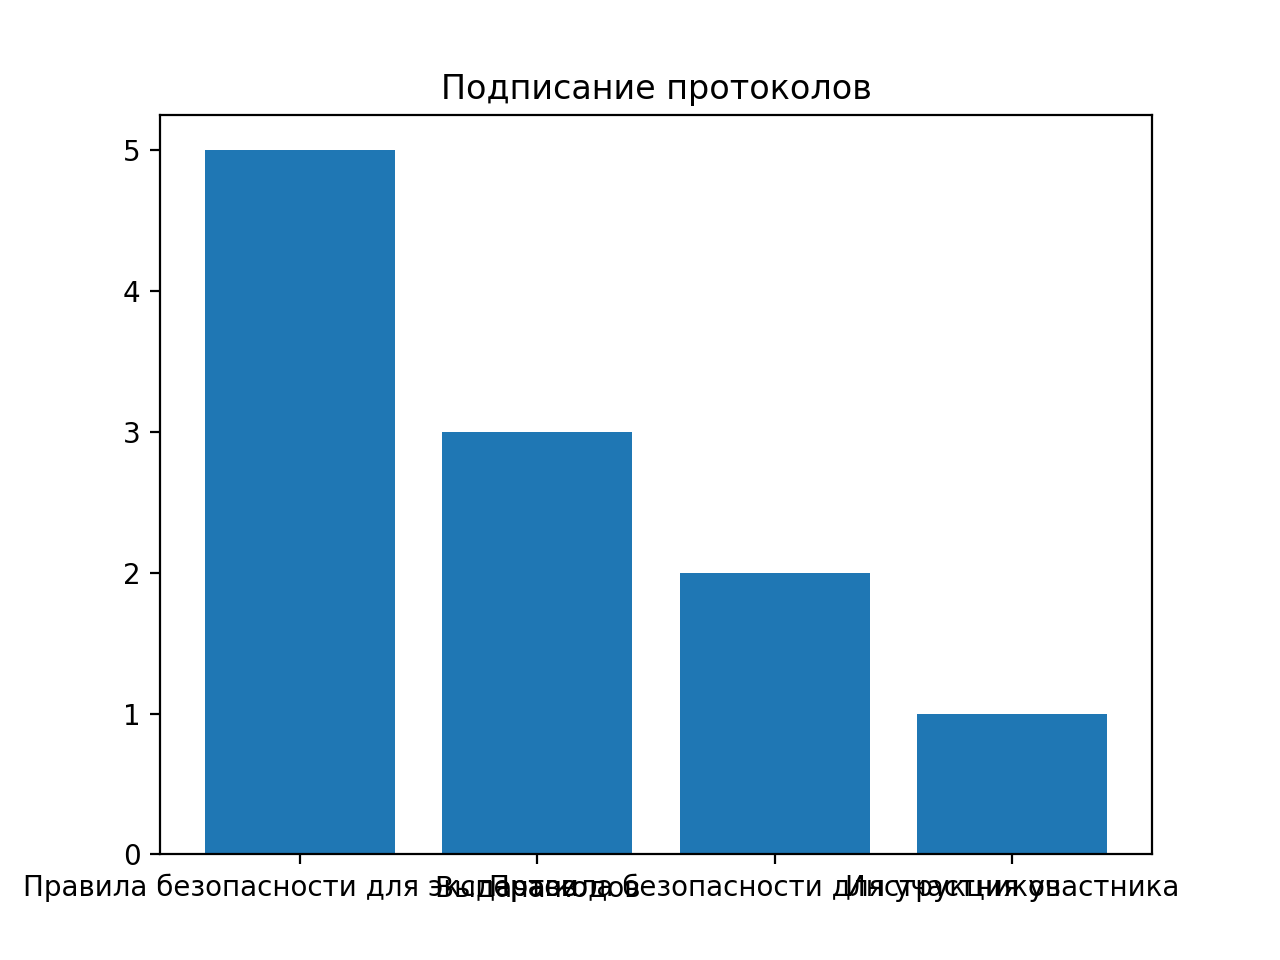
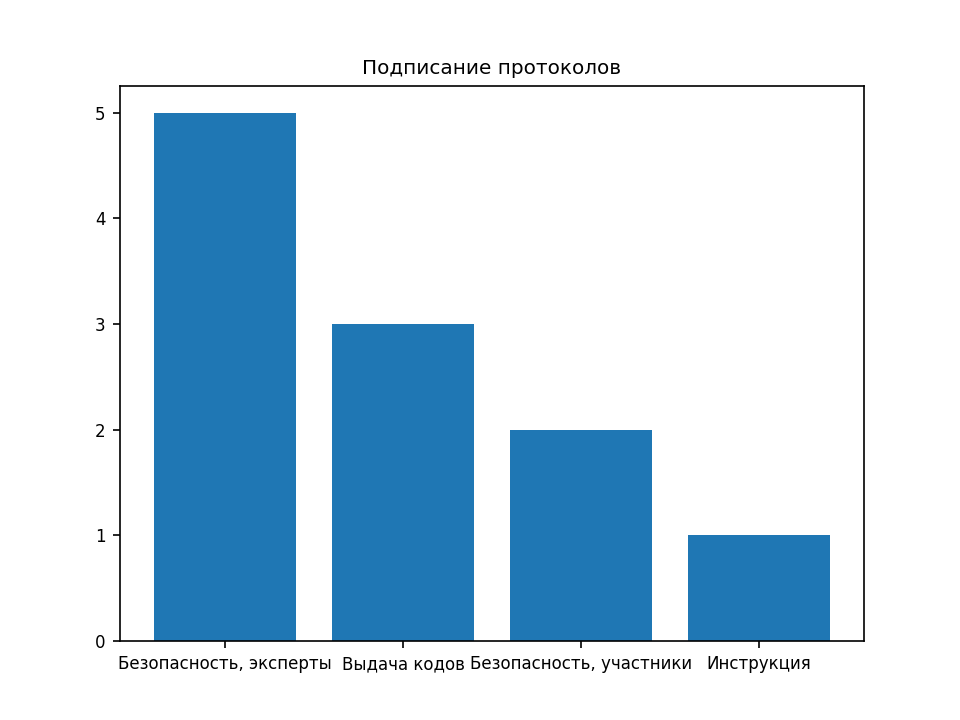
123

diff --git a/run.py b/run.py
@@ -198,7 +198,7 @@ class AppWindow(QMainWindow):
         plt.rcParams.update({'font.size':8})
         plt.bar(x, y)
         plt.title("Подписание протоколов")
-        plt.savefig(".//Лого//Chart.png")
+        plt.savefig(".//Лого//Chart.png", dpi = 150)
         pixmap = QPixmap(".//Лого//Chart.png")
         self.ui.Chart.setPixmap(pixmap)
 
